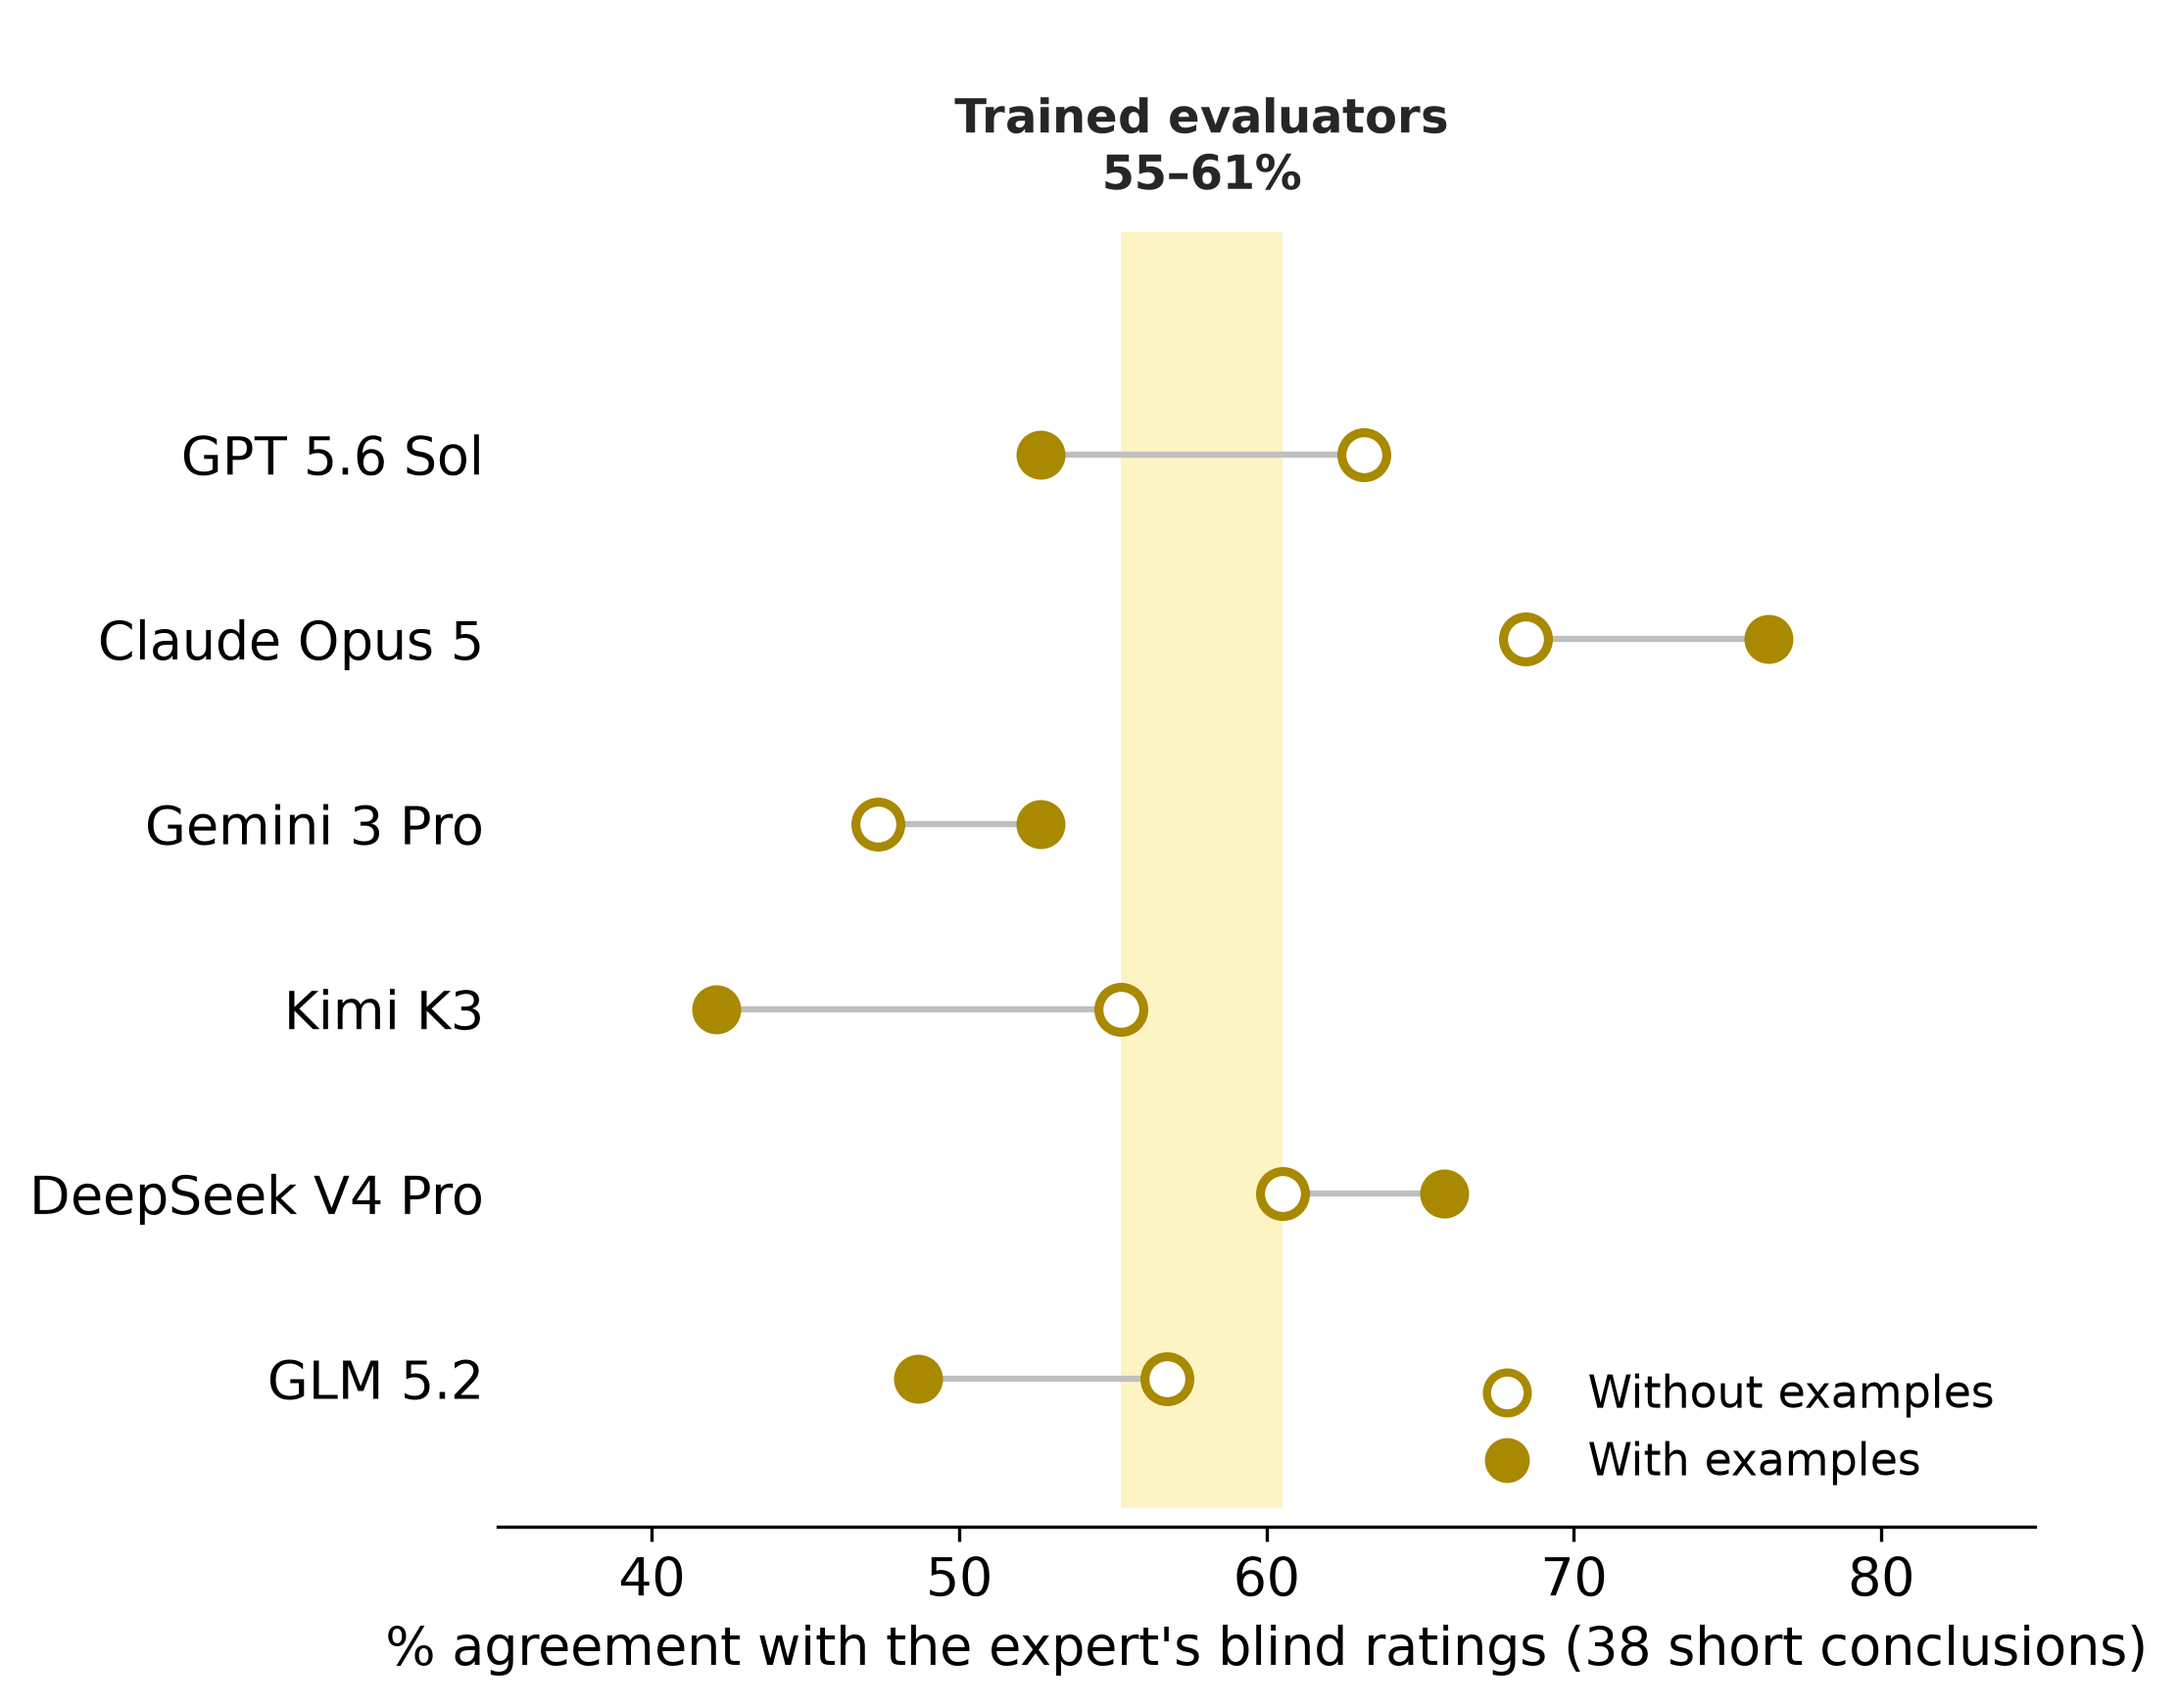
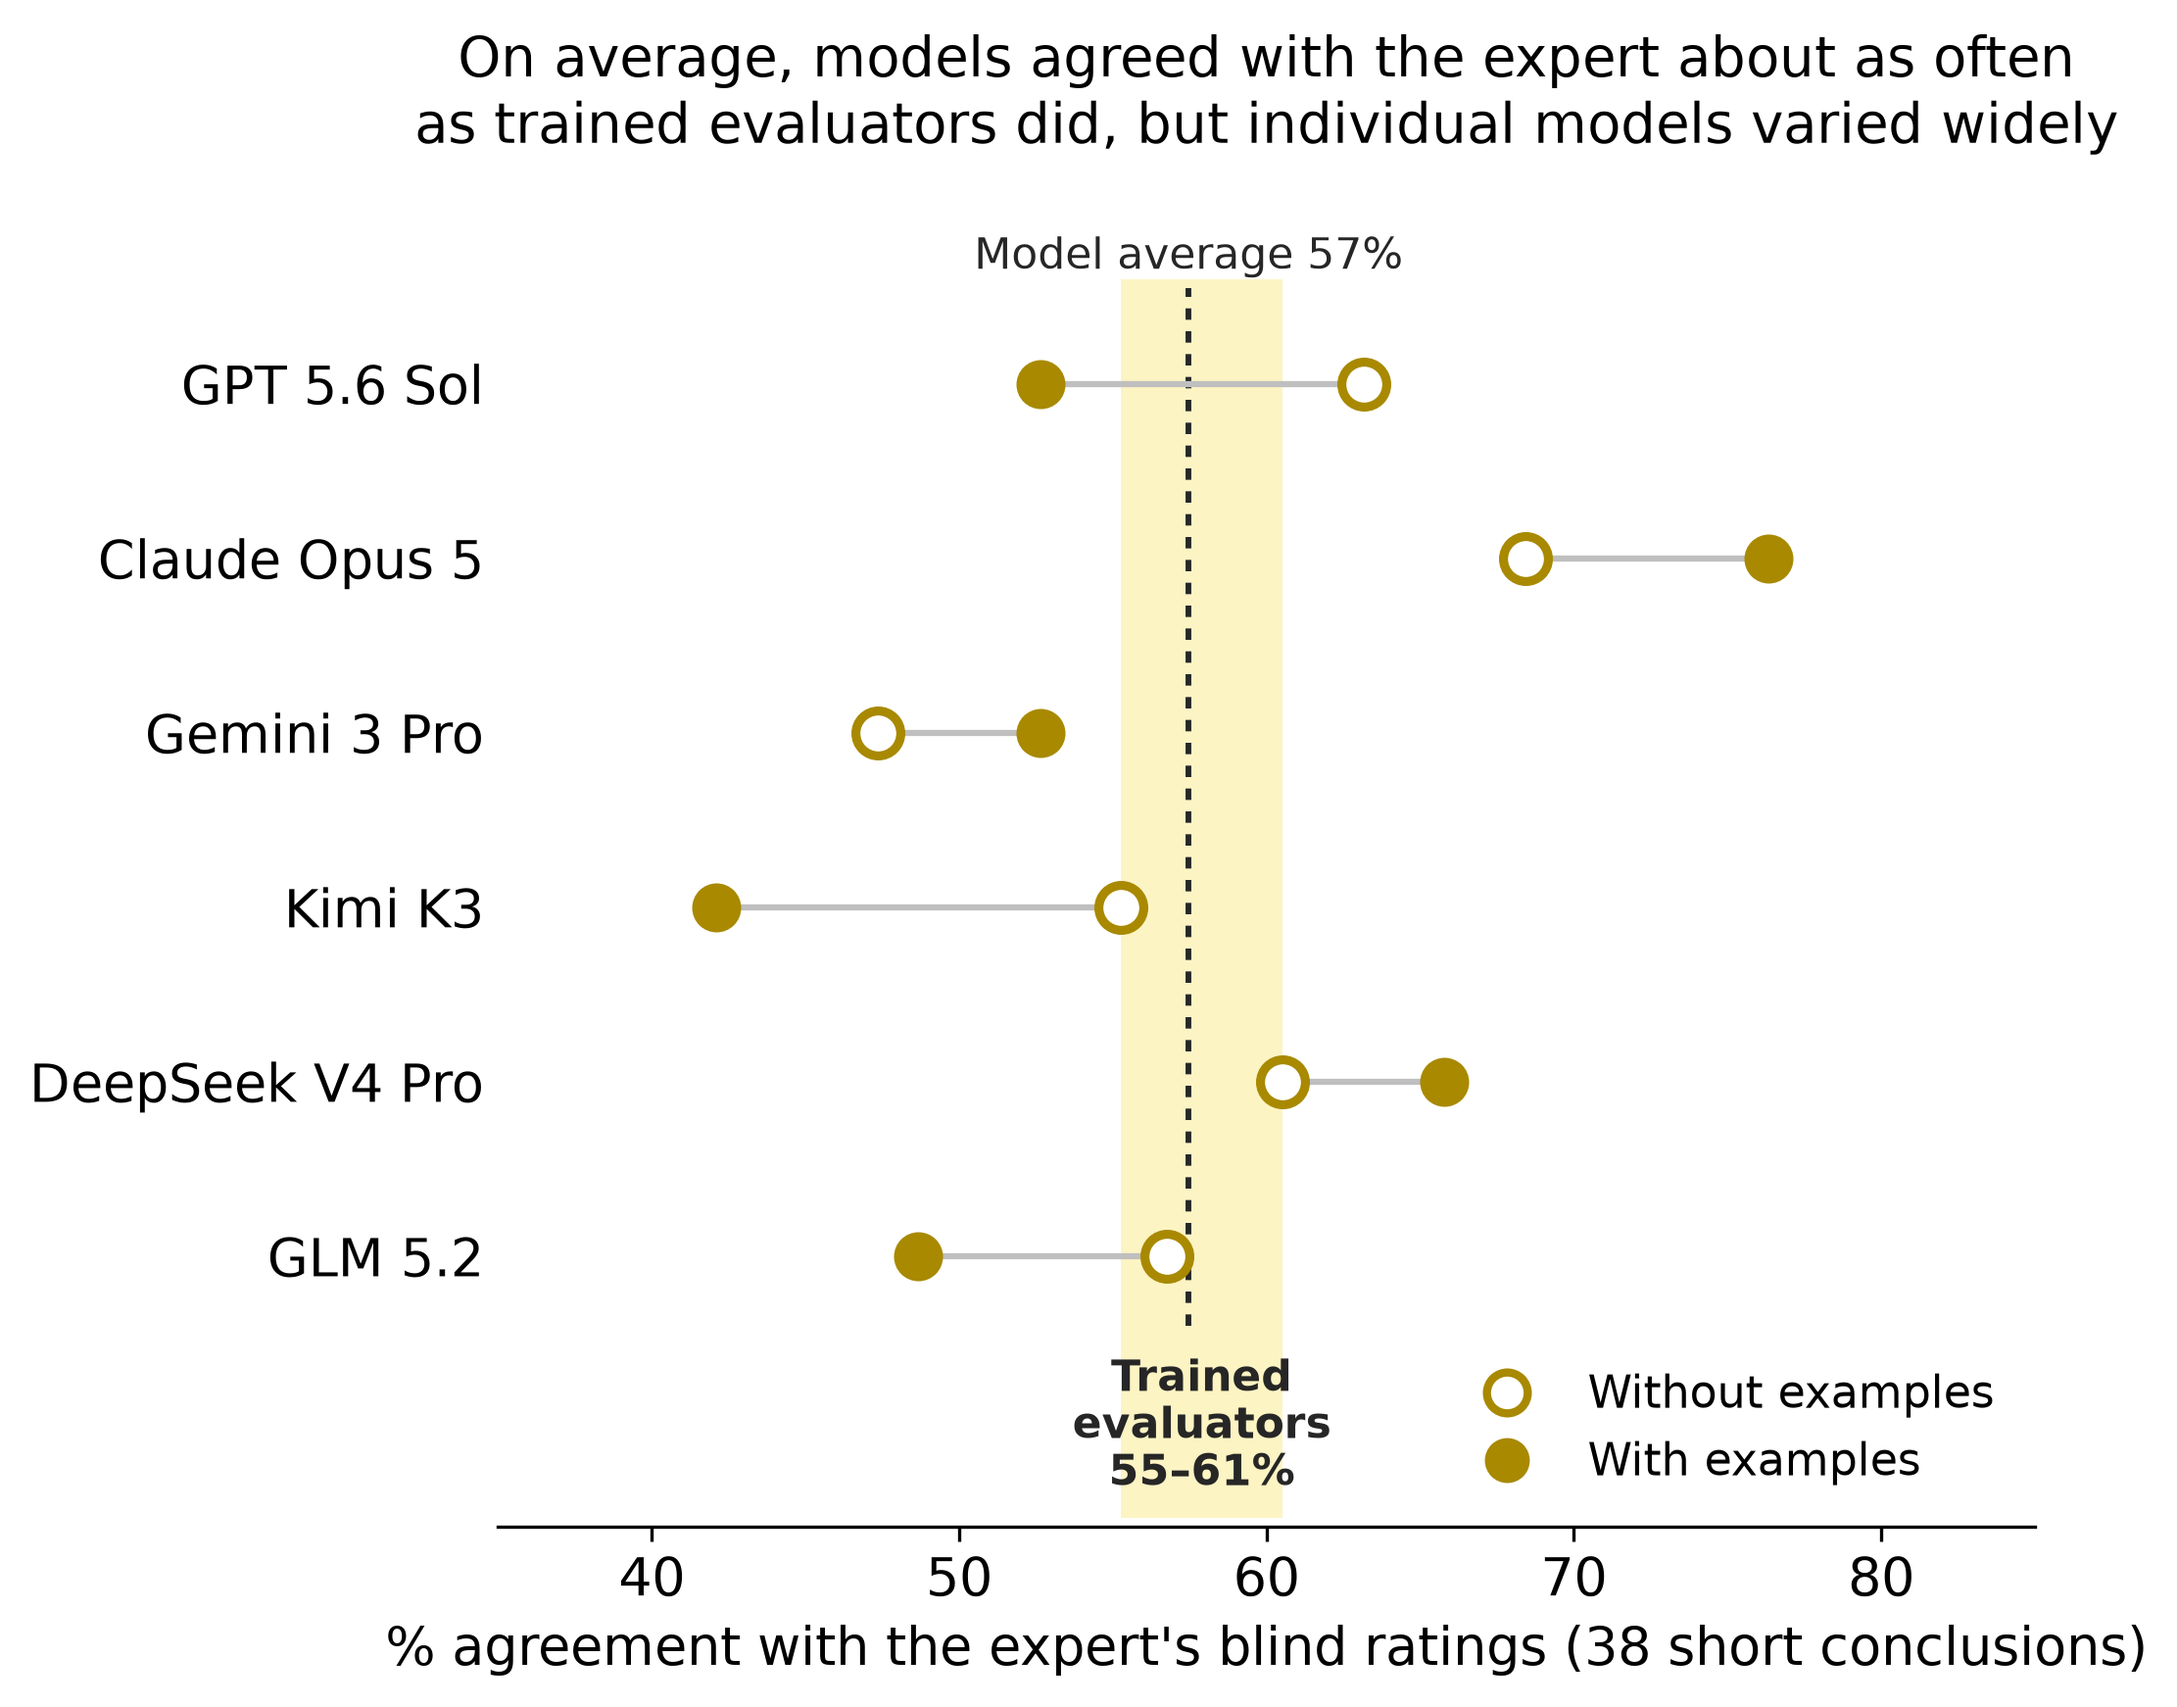
Human-comparison chart: finding title, relocated labels, model average
Claude-Session: https://claude.ai/code/session_01L4hwcV6Bm6gz8LaXaMsYPv

diff --git a/src/analysis/poster_figures.py b/src/analysis/poster_figures.py
@@ -526,9 +526,13 @@ def make_human_comparison_chart(data: dict, output_dir: Path = POSTER_FIGURES_DI
     lo, hi = min(data["raters"].values()), max(data["raters"].values())
     fig, ax = plt.subplots(figsize=(7.2, 6.0))
     n_rows = len(models)
-    ax.add_patch(Rectangle((lo, -0.7), hi - lo, n_rows + 0.9, fc=POSTER_ACCENT_PALE, ec="none", zorder=0))
-    ax.text((lo + hi) / 2, n_rows + 0.35, f"Trained evaluators\n{lo:.0f}–{hi:.0f}%", ha="center",
-            va="bottom", fontsize=11.5, fontweight="bold", color=POSTER_LABEL_COLOR)
+    ax.add_patch(Rectangle((lo, -1.5), hi - lo, n_rows + 1.1, fc=POSTER_ACCENT_PALE, ec="none", zorder=0))
+    ax.text((lo + hi) / 2, -0.95, f"Trained\nevaluators\n{lo:.0f}–{hi:.0f}%", ha="center",
+            va="center", fontsize=10.5, fontweight="bold", color=POSTER_LABEL_COLOR, linespacing=1.1)
+    mean = sum(r["pct"] for r in data["rows"]) / len(data["rows"])
+    ax.plot([mean, mean], [-0.4, n_rows - 0.45], color=POSTER_LABEL_COLOR, ls=(0, (2, 2)), lw=1.4, zorder=1)
+    ax.text(mean, n_rows - 0.4, f"Model average {mean:.0f}%", ha="center", va="bottom", fontsize=10.5,
+            color=POSTER_LABEL_COLOR)
     for i, m in enumerate(models[::-1]):
         z, f = by[(m, "zero_shot")], by.get((m, "few_shot"))
         ax.plot([z, f], [i, i], color="0.75", lw=1.5, zorder=1)
@@ -537,7 +541,10 @@ def make_human_comparison_chart(data: dict, output_dir: Path = POSTER_FIGURES_DI
     ax.set_yticks(range(n_rows), [MODEL_DISPLAY_NAMES[m] for m in models[::-1]])
     ax.tick_params(axis="y", length=0)
     ax.set_xlim(35, 85)
-    ax.set_ylim(-0.8, n_rows + 1.3)
+    ax.set_ylim(-1.55, n_rows + 0.1)
+    ax.set_title("On average, models agreed with the expert about as often\n"
+                 "as trained evaluators did, but individual models varied widely",
+                 fontsize=13.5, pad=12)
     ax.set_xlabel(f"% agreement with the expert's blind ratings ({data['n']} short conclusions)")
     handles = [Line2D([], [], marker="o", ls="", ms=10, mfc="white", mec=POSTER_ACCENT_DARK, mew=2,
                       label="Without examples"),
